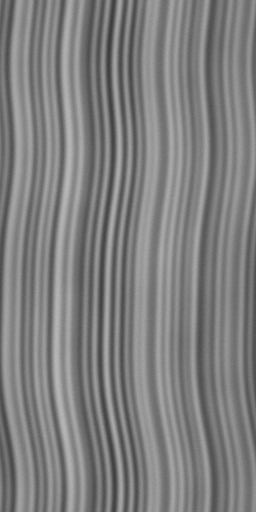
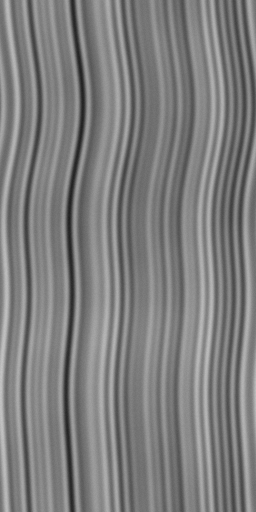
Strengthen horizontal brush and harden machined edges
Regenerate brush map with denser near-horizontal strokes and fewer
orbital marks; drop soft chassis wash and floating drops so insets
read as milled cuts rather than glossy UI panels.

diff --git a/src/style.css b/src/style.css
@@ -141,47 +141,46 @@ select {
     radial-gradient(ellipse 22% 18% at -6% 66%, rgba(44, 33, 18, 0.2), rgba(44, 33, 18, 0) 74%),
     /* burnished patch where a hand has rested for thirty years */
     radial-gradient(ellipse 34% 12% at 30% 88%, rgba(255, 250, 238, 0.13), rgba(255, 250, 238, 0) 70%),
-    /* key light high and a little to the left; both machined edges fall into shade */
-    linear-gradient(90deg, rgba(26, 19, 9, 0.1) 0%, rgba(26, 19, 9, 0) 9%, rgba(26, 19, 9, 0) 78%, rgba(26, 19, 9, 0.17) 100%),
-    linear-gradient(100deg, rgba(255, 255, 255, 0.05) 0%, rgba(255, 255, 255, 0.015) 36%, rgba(0, 0, 0, 0.04) 74%, rgba(0, 0, 0, 0.07) 100%),
+    /* restrained rack-ear shade only — avoid soft digital wash across the plate */
+    linear-gradient(90deg, rgba(26, 19, 9, 0.12) 0%, rgba(26, 19, 9, 0) 7%, rgba(26, 19, 9, 0) 86%, rgba(26, 19, 9, 0.14) 100%),
     var(--wear),
     var(--brush),
     linear-gradient(
       180deg,
-      #dbd4cc 0%,
-      #cdc5bd 13%,
-      #c6bfb7 34%,
-      #cfc7bf 58%,
-      #cec6be 79%,
-      #c5bdb5 100%
+      #d2cbc3 0%,
+      #c5beb6 16%,
+      #bfb8b0 40%,
+      #c8c1b9 62%,
+      #c4bdb5 82%,
+      #bbb4ac 100%
     );
   background-size:
     auto, auto, auto, auto,
     auto, auto, auto, auto, auto, auto,
-    auto, auto,
+    auto,
     780px 1180px,
-    390px 390px,
+    280px 280px,
     auto;
   background-position:
     0 0, 0 0, 0 0, 0 0,
     0 0, 0 0, 0 0, 0 0, 0 0, 0 0,
-    0 0, 0 0,
+    0 0,
     -90px -140px,
     0 0,
     0 0;
   background-blend-mode:
     normal, normal, normal, normal,
     normal, normal, normal, normal, normal, normal,
-    normal, soft-light,
+    normal,
     soft-light,
     overlay,
     normal;
   overflow: hidden;
+  /* hard cabinet contact — no soft floating drop */
   box-shadow:
-    0 0 0 1px rgba(10, 6, 2, 0.85),
-    0 3px 10px rgba(0, 0, 0, 0.7),
-    0 10px 26px rgba(0, 0, 0, 0.5),
-    0 -3px 9px rgba(0, 0, 0, 0.55);
+    0 0 0 1px rgba(10, 6, 2, 0.9),
+    0 2px 0 rgba(0, 0, 0, 0.55),
+    0 -1px 0 rgba(0, 0, 0, 0.45);
 }
 
 /* surface wear sits on the panel but under every control */
@@ -420,22 +419,19 @@ select {
   border-radius: 1.5px;
   background-color: #9d968b;
   background-image:
-    /* pressed bevel: lit along the top edge, shaded where it meets the well */
-    linear-gradient(180deg, rgba(255, 255, 255, 0.22) 0px, rgba(255, 255, 255, 0) 2px),
-    linear-gradient(0deg, rgba(24, 18, 10, 0.55) 0px, rgba(24, 18, 10, 0) 3px),
-    linear-gradient(90deg, rgba(255, 255, 255, 0.1) 0px, rgba(255, 255, 255, 0) 2px),
-    linear-gradient(270deg, rgba(24, 18, 10, 0.3) 0px, rgba(24, 18, 10, 0) 3px),
+    /* hard turned lip — 1px, not a soft dome */
+    linear-gradient(180deg, rgba(255, 255, 255, 0.28) 0px, rgba(255, 255, 255, 0) 1.5px),
+    linear-gradient(0deg, rgba(24, 18, 10, 0.5) 0px, rgba(24, 18, 10, 0) 2px),
     var(--wear),
     var(--brush),
-    linear-gradient(180deg, #b9b2a6 0%, #9e9688 44%, #837c6e 100%);
-  background-size: auto, auto, auto, auto, 130px 90px, 150px 150px, auto;
-  background-position: 0 0, 0 0, 0 0, 0 0, -20px -25px, 0 0, 0 0;
-  background-blend-mode: normal, normal, normal, normal, soft-light, overlay, normal;
+    linear-gradient(180deg, #aea79c 0%, #968f83 50%, #7e776c 100%);
+  background-size: auto, auto, 130px 90px, 120px 120px, auto;
+  background-position: 0 0, 0 0, -20px -25px, 0 0, 0 0;
+  background-blend-mode: normal, normal, soft-light, overlay, normal;
   box-shadow:
-    inset 0 0 0 1px rgba(255, 255, 255, 0.16),
-    inset 0 0 0 1.5px rgba(20, 15, 8, 0.14),
-    inset 0 -2px 3px -1px rgba(24, 18, 10, 0.3),
-    0 1px 2px rgba(0, 0, 0, 0.45);
+    inset 0 0 0 1px rgba(20, 15, 8, 0.35),
+    inset 0 1px 0 rgba(255, 255, 255, 0.2),
+    0 1px 0 rgba(0, 0, 0, 0.55);
 }
 
 .rack-btn:hover:not(:disabled) .rb-cap {
@@ -516,14 +512,14 @@ select {
 .status-bay {
   position: relative;
   margin-top: 12px;
-  padding: 2.5px;
-  border-radius: 3px;
-  background: linear-gradient(180deg, #0a0805 0%, #241c11 60%, #090705 100%);
+  padding: 2px;
+  border-radius: 2px;
+  background: #120e09;
   box-shadow:
-    inset 0 2px 4px rgba(0, 0, 0, 0.98),
-    inset 0 -1px 0 rgba(255, 236, 200, 0.1),
-    0 1px 0 rgba(255, 255, 255, 0.28),
-    0 1px 1px rgba(0, 0, 0, 0.35);
+    inset 0 2px 3px rgba(0, 0, 0, 0.95),
+    inset 0 -1px 0 rgba(255, 236, 200, 0.08),
+    0 1px 0 rgba(255, 255, 255, 0.32),
+    0 0 0 1px rgba(18, 12, 6, 0.55);
 }
 
 .bay-glass {
@@ -595,11 +591,10 @@ select {
   grid-template-rows: minmax(0, 0.95fr) auto;
   position: relative;
   z-index: 1;
-  border-top: 1.5px solid rgba(16, 11, 5, 0.8);
-  background-image: linear-gradient(180deg, rgba(20, 14, 6, 0.1) 0%, rgba(20, 14, 6, 0) 26px);
+  border-top: 1px solid rgba(16, 11, 5, 0.88);
   box-shadow:
-    inset 0 1px 0 rgba(255, 255, 255, 0.42),
-    inset 0 9px 12px -9px rgba(0, 0, 0, 0.45);
+    inset 0 1px 0 rgba(255, 255, 255, 0.38),
+    inset 0 3px 0 rgba(0, 0, 0, 0.12);
 }
 
 .instrument {
@@ -630,16 +625,17 @@ select {
   min-height: 0;
   display: flex;
   flex-direction: column;
-  border-radius: 7px;
+  border-radius: 4px;
   background: #1a1a15;
+  /* machined cut: hard walls + short contact occlusion, not soft bloom */
   box-shadow:
-    inset 0 8px 11px -3px rgba(8, 5, 2, 0.98),
-    inset 0 -6px 9px -3px rgba(6, 4, 2, 0.92),
-    inset 7px 0 10px -3px rgba(12, 8, 4, 0.95),
-    inset -7px 0 10px -3px rgba(12, 8, 4, 0.95),
+    inset 0 5px 6px -2px rgba(8, 5, 2, 0.98),
+    inset 0 -4px 5px -2px rgba(6, 4, 2, 0.9),
+    inset 5px 0 6px -2px rgba(12, 8, 4, 0.92),
+    inset -5px 0 6px -2px rgba(12, 8, 4, 0.92),
     inset 0 0 0 1px rgba(0, 0, 0, 0.98),
-    0 0 0 1px rgba(28, 20, 10, 0.7),
-    0 1px 2px rgba(16, 10, 4, 0.5);
+    0 0 0 1px rgba(255, 248, 230, 0.22),
+    0 1px 0 rgba(16, 10, 4, 0.55);
   overflow: hidden;
 }
 
